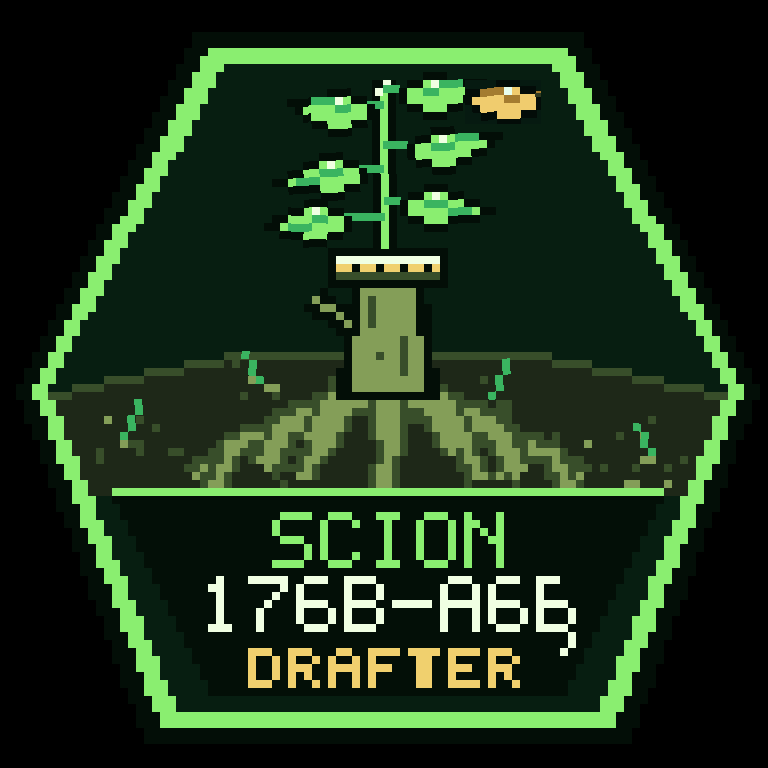
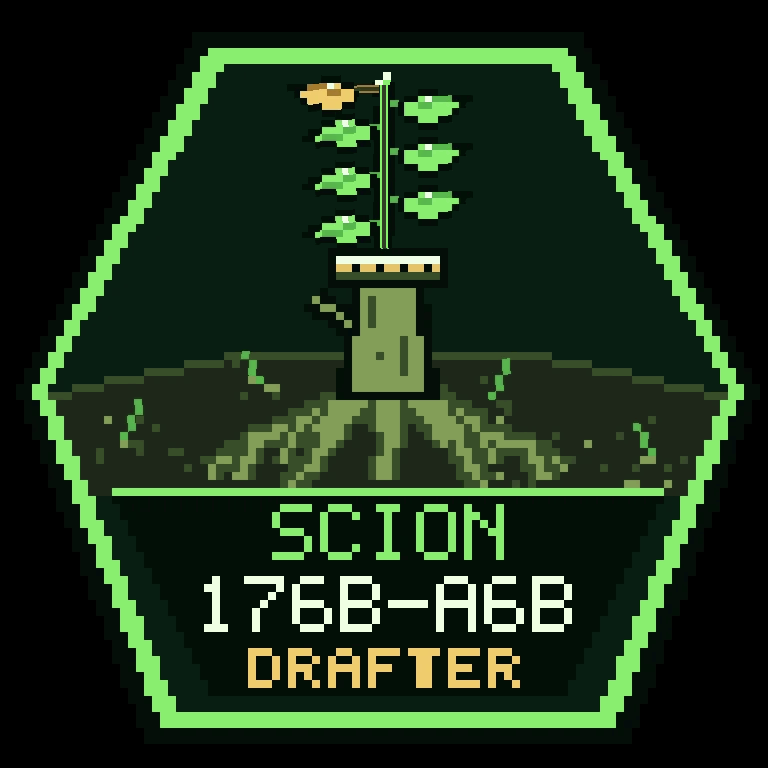
docs: refresh README and drafter card hero

diff --git a/README.md b/README.md
@@ -1,12 +1,15 @@
 # Scion: ternary quantization with trained corrections
 
 Scion is the project behind the released
-[**Scion-35B-A3B**](https://huggingface.co/SkyIsNotGreen/Scion-35B-A3B) and
+[**Scion-35B-A3B**](https://huggingface.co/SkyIsNotGreen/Scion-35B-A3B),
 [**Scion-FlashNext-176B-A6B**](https://huggingface.co/SkyIsNotGreen/Scion-FlashNext-176B-A6B),
-split out of
+and their optional MTP drafters:
+[35B](https://huggingface.co/SkyIsNotGreen/Scion-35B-A3B-mtp-drafter) and
+[176B](https://huggingface.co/SkyIsNotGreen/Scion-FlashNext-176B-A6B-mtp-drafter).
+It was split out of
 [bonsai2-ternary-forensics](https://github.com/sky-is-green/bonsai2-ternary-forensics)
 so the harness, the port decisions and the release docs can be cloned and run on
-their own. The dense-model forensics (Bonsai 2 27B) stayed in that repository.
+their own.
 
 <p align="center">
   <a href="https://huggingface.co/SkyIsNotGreen/Scion-35B-A3B"><img src="docs/figures/scion-35b.webp" alt="Scion-35B-A3B animated pixel hero" width="250"></a>
@@ -18,21 +21,28 @@ their own. The dense-model forensics (Bonsai 2 27B) stayed in that repository.
 
 **The idea.** Ternarise the expert banks of a pretrained MoE in place, then
 recover the routing damage with small trained corrections on the residual
-stream. No full-precision masters and no full-model QAT. The frozen 35B body
-ships at 2.125 bpw (`Q2_0_g128` ternary experts, formerly `PQ2_0`; Q8_0 for
-the rest); the 176B ships `TQ1_0_g128` (formerly `PTQ1_0`). The
+stream. No full-precision masters and no full-model QAT. The 35B body ships at
+2.125 bpw expert banks (`Q2_0_g128`; `PQ2_0` in the fork) and 11.34 GB total;
+the 176B ships 1.75 bpw expert banks (`TQ1_0_g128`; `PTQ1_0` in the fork). The
 corrections are rank-512 branches on the attention output and the MoE block
 output, plus router deltas, trained by output-KD **with the deployed quantizer
-in the loop**.
+in the loop**. The 35B drafter is a small trained k=1 sidecar. The 176B drafter
+is Qwen's own native MTP block, packed back with zero training.
 
-## Where the project is (2026-10)
+## Releases (2026-11)
 
-| lane | status |
-|---|---|
-| **Scion-35B-A3B** | **released**: 11.34 GB / 2.61 bpw ternary experts + embedded corrections, plus an optional k=1 MTP drafter. Runtime `v0.4.2`. CPU and ROCm verified; CUDA/Windows binaries published but runtime-unverified (see [platform scope](docs/PLATFORM-SCOPE.md)). |
-| **Scion-35B v2 (FlashNext distill)** | **planning**: frozen ternary body, corrections retrained against Scion-FlashNext with long-horizon windows. Plan: [v2/PLAN.md](v2/PLAN.md); lessons: [v2/LESSONS.md](v2/LESSONS.md). |
-| **Scion-FlashNext-176B-A6B** | **released** (2026-10-05): the 125B MoE (6B activated) + the 51.2B-parameter n-gram table in one 60.17 GB file at 2.72 bpw; `TQ1_0_g128` ternary experts (formerly `PTQ1_0`) + embedded corrections. CUDA, ROCm and CPU verified; runtime branch `qwen4exp-proto`. |
-| **Dense (Clef-Flash)** | **in progress, not released**: the rotated-basis + GPTQ + QAT ladder reaches 23.25 PPL / 5.52 GiB, but free generation still degrades and a plain Q2_K (13.06 PPL, 3.56 GiB) beats it. The 2026-10-06 derisk run (0.8B, 1500 steps, mixed corpus + logits KD) plateaus at 42.4 PPL with generation still broken, so scaling the same recipe is not justified and the lane is on hold. See [`dense/README.md`](dense/README.md). |
+| model | what | size | runtime | status |
+|---|---|---|---|---|
+| [**Scion-35B-A3B**](https://huggingface.co/SkyIsNotGreen/Scion-35B-A3B) | ternary Qwen3.8-35B-A3B distill + trained corrections | 11.34 GB | Prism `moe-corr-runtime` / Strata | released; runtime v0.4.2; CPU and ROCm verified, CUDA/Windows published but runtime-unverified |
+| [**Scion-35B-A3B-mtp-drafter**](https://huggingface.co/SkyIsNotGreen/Scion-35B-A3B-mtp-drafter) | k=1 MTP sidecar, trained self-distill | 50 MB | Prism `-md` | released; ~1.2x generation |
+| [**Scion-FlashNext-176B-A6B**](https://huggingface.co/SkyIsNotGreen/Scion-FlashNext-176B-A6B) | ternary FlashNext 176B + 51.2B n-gram table + trained corrections | 57.62 GB default; 60.17 GB Q4_0 table; 65.8 GB F16 | Prism `qwen4exp-proto` / Strata | released 2026-10-05 |
+| [**Scion-FlashNext-176B-A6B-mtp-drafter**](https://huggingface.co/SkyIsNotGreen/Scion-FlashNext-176B-A6B-mtp-drafter) | native MTP block, zero training | 0.89 GB | **Strata only** | released 2026-11-15 |
+| Scion-35B v2 | long-horizon correction retrain | — | — | planning; [plan](v2/PLAN.md), [lessons](v2/LESSONS.md) |
+
+The 35B v2 lane is a frozen-body correction retrain aimed at long-horizon work:
+the shipped 35B scores 14.4% on the hard-90 suite and derails into repetition
+at 5-10k generated tokens. The plan and the lessons so far are in
+[`v2/PLAN.md`](v2/PLAN.md) and [`v2/LESSONS.md`](v2/LESSONS.md).
 
 Negative results are kept in [`FAILURES.md`](FAILURES.md); runtime support
 boundaries and what a backend report must carry are in
@@ -40,13 +50,15 @@ boundaries and what a backend report must carry are in
 
 ## Runtime boundary
 
-Scion owns the model, the training, the codecs and the export. It does not depend on a serving
-engine. The reference loader is the Prism `qwen4exp` llama.cpp fork; Strata is one optional
-runtime, and its scripts live under [`integrations/strata/`](integrations/strata/). The container
-types and correction contract are in [`SCION_RUNTIME.md`](SCION_RUNTIME.md); core tests run without
-a Strata checkout.
+Scion owns the model, the training, the codecs and the export. The reference
+loader is the Prism `qwen4exp` llama.cpp fork; Strata is the second runtime.
+The 35B and 176B bodies run on the fork (branches below), the 35B drafter is an
+`-md` sidecar, and the 176B native MTP drafter is **Strata-only** — it is not
+loadable as a llama.cpp sidecar. Container types and the correction contract
+are in [`SCION_RUNTIME.md`](SCION_RUNTIME.md); core tests run without a Strata
+checkout.
 
-## Reference release: Scion-35B-A3B
+## Release: Scion-35B-A3B
 
 `empero-ai/Qwen3.8-35B-A3B-Distill` (a Qwen3.8-line distill on
 `Qwen/Qwen3.6-35B-A3B`), ternary experts, Q8_0 rest and embedded corrections:
@@ -71,34 +83,68 @@ axes inverted so the better end is up. Every row uses the same protocol.
 
 Card and weights:
 [`SkyIsNotGreen/Scion-35B-A3B`](https://huggingface.co/SkyIsNotGreen/Scion-35B-A3B).
-A snapshot of the card is kept at `docs/RELEASE-35B-MODEL-CARD.md`.
+A snapshot of the card is kept at `docs/RELEASE-35B-MODEL-CARD.md`. The repo
+also ships an optional decision head: a correctness readout
+(`EMB 2048 <file> <p_correct>`) for agents that need a confidence gate.
 
-Optional speedup: a 50 MB k=1 **MTP drafter** ships at
-[`SkyIsNotGreen/Scion-35B-A3B-mtp-drafter`](https://huggingface.co/SkyIsNotGreen/Scion-35B-A3B-mtp-drafter).
-It drafts the next token from the model's own hidden state and gives about
-1.2x generation (up to 1.37x on the bench prompt) with unchanged outputs.
-Pass it with `-md` only: the sidecar is detected from the GGUF. Do not add
-`--spec-type draft-mtp` (that selects the MTP head inside a full model and
+### 35B MTP drafter
+
+The optional **50 MB k=1 MTP drafter** is a trained self-distill (3,088 windows,
+67-83% acceptance). It drafts the next token from the model's own hidden state
+and gives about 1.2x generation (up to 1.37x on the bench prompt) with unchanged
+outputs. Pass it with `-md` only: the sidecar is detected from the GGUF. Do not
+add `--spec-type draft-mtp` (that selects the MTP head inside a full model and
 fails with `unknown model architecture: 'mtp'`); the sidecar's explicit type
 name is `draft-mtp-sidecar`.
 
 ## Release: Scion-FlashNext-176B-A6B
 
-`Qwen/Qwen3.8-Flash-Next-FP8` quantized to **2.72 bpw**: the 125B language model
-(6B activated per token, 512 experts top-10) plus the 51.2B-parameter n-gram
-table in a single file. Ternary **PTQ1_0** expert banks with embedded
-corrections; body Q6_K+Q8_0 (default) or F16; 60.17 GB and 65.80 GB variants.
+`Qwen/Qwen3.8-Flash-Next-FP8` quantized to **2.60-2.72 bpw** in the ternary
+containers: the 125B language model (6B activated per token, 512 experts top-10)
+plus the 51.2B-parameter n-gram table in a single file. Ternary `TQ1_0_g128`
+expert banks at 1.75 bpw (`PTQ1_0` in the fork) with embedded corrections;
+body Q6_K+Q8_0 or F16.
 
-| metric (one harness) | **Scion-FlashNext** | ISTA GSQ-RCO Q2_0 |
+| container | size | notes |
+|---|---|---|
+| Q6_K + Q4X160 table (default) | 57.62 GB | 2.60 bpw; smallest |
+| Q6_K + Q4_0 table | 60.17 GB | 2.72 bpw |
+| F16 body | 65.8 GB | fidelity variant |
+
+| metric (one harness, Q6_K/Q4_0 table) | **Scion-FlashNext** | ISTA GSQ-RCO Q2_0 |
 |---|---|---|
 | HellaSwag 400 | **82.00** | 81.50 |
 | Winogrande 400 | **77.50** | 74.75 |
 | wikitext-2 PPL | 5.457 | **5.240** |
 
+Measured with Strata on the 2x RX 7900 XT box (Q4_0-table file): **80.5-80.8
+tok/s** generation, 12.4 ms/token, 2.3-2.4 tokens per pipeline window.
+
 Card and weights:
 [`SkyIsNotGreen/Scion-FlashNext-176B-A6B`](https://huggingface.co/SkyIsNotGreen/Scion-FlashNext-176B-A6B);
-snapshot at `docs/RELEASE-FLASHNEXT-176B-A6B-MODEL-CARD.md`. It needs the
-runtime fork's `qwen4exp-proto` branch, not stock llama.cpp.
+snapshot at `docs/RELEASE-FLASHNEXT-176B-A6B-MODEL-CARD.md`. The body runs on
+the fork's `qwen4exp-proto` branch or Strata; stock llama.cpp cannot load it.
+
+## Release: Scion-FlashNext-176B-A6B native MTP drafter
+
+Qwen's own MTP block is present in the BF16 checkpoint but is dropped by
+llama.cpp's converter (`supports_mtp_export = false`). This pack restores the
+31 `mtp.*` tensors in Strata's runtime layout, so the 176B can draft from its
+own hidden state with no training, no distillation and no fitting pass.
+
+| metric | result |
+|---|---|
+| Draft acceptance (weighted, 10 mixed greedy prompts, 256 tok) | **0.741** (1310/1769), 0.640-0.810 per request |
+| Draft acceptance (30 long-form generations, T 0.6) | 0.62-0.72 per request |
+| Decode (2x RX 7900 XT, Q6_K, `--spec 4`) | 52-78 tok/s |
+| Prefill, ~450-token prompts | 116-135 tok/s |
+
+0.89 GB; Q2_0 round-to-nearest experts and BF16 dense tensors. **Strata only:**
+this is not a llama.cpp `-md` sidecar, and the fork's `draft-mtp-sidecar` lane
+does not load it. Convert once and serve with `--mtp mtp/rt --spec 4`; the full
+command, provenance manifest and tensor hashes are on the
+[card](https://huggingface.co/SkyIsNotGreen/Scion-FlashNext-176B-A6B-mtp-drafter)
+and in [`v2/mtp-drafter-release/`](v2/mtp-drafter-release/).
 
 ## What the experiments established
 
@@ -115,47 +161,55 @@ An earlier proof on the frozen proxy `allenai/OLMoE-1B-7B-0924`: the uncorrected
 mixed GGUF measured **566.7 PPL, and 14.48** with both placements and routers
 (2.12 GB body, 22.2 MB adapter), with CPU and HIP builds agreeing.
 
-## Dense route (2026-10-03)
-
-The recipe above repairs MoE routing damage. A dense variant is now open, with
-Cloudflare's **Clef-Flash** (Qwen3.5-9B + joint schema head) as the test bed:
-ternary body via `GGML_PQ2_0_LLOYD=1`, residual-stream corrections re-derived
-for a dense/hybrid stack, and a typed-decision metric (accept/reject parity
-against bf16) that the MoE PPL/KLD work did not have. Measured so far: absmax
-is broken (hidden-state cosine 0.007), Lloyd alone gives 0.417, and uncorrected
-decisions shift down ~0.43 - corrections are load-bearing here too. Plan:
-[`docs/DENSE-TERNARY-QAT.md`](docs/DENSE-TERNARY-QAT.md). The work is a
-postable ternary Clef community quant; the ladder so far (f16 = 12.59 PPL):
-deployed 8684 -> signed RTN 476 -> GPTQ+act-order 141.6 -> 128-w Hessians 120.6
--> +`ffn_down` F16 75.2 -> **QAT 23.25** (5.52 GiB). The 2026-10-06 community
-gate found a plain Q2_K at 13.06 PPL / 3.56 GiB beats the ternary artifact, so
-nothing is released; the follow-up derisk run (0.8B, mixed corpus + logits KD,
-1500 steps) confirmed free generation does not recover with scale on this
-recipe (PPL plateau ~42.4; code/math still degenerate), so the lane is on hold.
-Status: [`dense/README.md`](dense/README.md).
-
 ## Quickstart
 
-**Run a release.** Both releases need the runtime fork,
+**Run a release.** The 35B and 176B bodies need the runtime fork,
 [`sky-is-green/prism-ml-llama.cpp`](https://github.com/sky-is-green/prism-ml-llama.cpp).
-The 35B loads on the default `moe-corr-runtime` branch; Flash-Next needs
-`qwen4exp-proto`. Build once and run:
+The 35B loads on `moe-corr-runtime`; Flash-Next needs `qwen4exp-proto`. Build
+once per branch and run:
 
 ```bash
-git clone https://github.com/sky-is-green/prism-ml-llama.cpp
+git clone -b moe-corr-runtime https://github.com/sky-is-green/prism-ml-llama.cpp
 cd prism-ml-llama.cpp
 ./verify-container-support.sh          # prints RESULT: OK
 cmake -B build -DGGML_CUDA=ON          # or -DGGML_HIP=ON, or no flag for CPU
 cmake --build build -j --target llama-cli llama-server
 
-# Scion-35B-A3B with the drafter (branch moe-corr-runtime)
+# weights
+hf download SkyIsNotGreen/Scion-35B-A3B Scion-35B-A3B-PQ2_0-corr.gguf --local-dir .
+hf download SkyIsNotGreen/Scion-35B-A3B-mtp-drafter Scion-35B-A3B-mtp-drafter.gguf --local-dir .
+
+# Scion-35B-A3B with the drafter
 ./build/bin/llama-server -m Scion-35B-A3B-PQ2_0-corr.gguf \
     -md Scion-35B-A3B-mtp-drafter.gguf -ngl 99 -c 4096 -t 8 --port 8080
 ```
 
+```bash
+# 176B, 48 GB card + >= 64 GB host RAM (clone -b qwen4exp-proto and build first)
+hf download SkyIsNotGreen/Scion-FlashNext-176B-A6B \
+    Scion-FlashNext-176B-A6B-Q6_K-Q4X160.gguf --local-dir .
+./build/bin/llama-server -m Scion-FlashNext-176B-A6B-Q6_K-Q4X160.gguf -ngl 99 \
+    --cpu-moe -ot per_layer_token_embd.weight=CPU -fa on --numa distribute \
+    -c 4096 --port 8081
+```
+
+The 176B native MTP drafter is Strata-only:
+
+```bash
+hf download SkyIsNotGreen/Scion-FlashNext-176B-A6B-mtp-drafter \
+    Scion-FlashNext-176B-A6B-mtp-drafter.gguf --local-dir .
+# in the Strata checkout
+python tools/mtp_rt.py --gguf Scion-FlashNext-176B-A6B-mtp-drafter.gguf --out mtp/rt
+```
+
+Then add `--mtp mtp/rt --spec 4` to the Strata serve command; the full
+invocation is on the
+[drafter card](https://huggingface.co/SkyIsNotGreen/Scion-FlashNext-176B-A6B-mtp-drafter).
+
 Recommended sampling and context notes are on each model card. The fork's
 `master` is an untouched upstream mirror and cannot load these files; a load
-failure saying `invalid ggml type 142` means the wrong branch was built.
+failure saying `invalid ggml type 142` (35B) or `143/146` (176B) means the wrong
+branch or an upstream build was used.
 
 **Reproduce the recipe, locally and free: the OLMoE proxy.** Python 3.10 or
 newer, torch (ROCm or CUDA wheels), `transformers`, `datasets`, `numpy` and
@@ -164,7 +218,7 @@ ternary QAT negative control is `moe/olmoe_proxy.py` and the correction trainer
 is `moe/olmoe_corrections.py`.
 
 **Paths.** The harness resolves its external paths through `moe/scion_paths.py`
-and `dense/clef_paths.py`; every default is an environment variable
+and every default is an environment variable
 (`SCION_WORKSPACE`, `SCION_MODELS`, `LLAMA_BIN`, `GGUF_PY`, ...). Set
 `SCION_WORKSPACE` if models and sibling checkouts live outside the repo's
 parent directory.
@@ -188,9 +242,10 @@ volume. Port notes: `moe/PORT-QWEN35.md`; the architecture decision record:
 | path | what |
 |---|---|
 | `moe/` | the harness: proxies, correction trainers, port, box-run scripts, export and bench tooling, result JSONs |
-| `dense/` | the dense/hybrid route (Clef-Flash): reverse loader, correction trainer, rotated-basis quantizer, QAT |
+| `v2/` | 35B v2 planning, FlashNext evals, and the 176B native MTP drafter pack |
 | `docs/` | write-ups: the MoE extension, release tables, port decision, tail plan, platform scope, registers |
 | `serving/` | serving experiments: placement sweep (ternary vs f16 offload, threads, split modes) and the expert-cache negative result |
+| `integrations/strata/` | Strata serving scripts, decision-head clients and fit notes |
 | `scion_moe/` | vendored `rotation` and RTN quantizer used by the harness |
 | `FAILURES.md` | the negative register for this track (D1-D8) |
 | `retention-grid.png` | the release figure (regenerate with `moe/plot_bench.py`, which writes into `moe/results/qwen35-retention/`) |
@@ -203,14 +258,15 @@ volume. Port notes: `moe/PORT-QWEN35.md`; the architecture decision record:
 - `-ncmoe` is the VRAM-budget dial, and placement does not change the math;
 - the optional MTP drafter gives about **1.2x generation** on the 35B (up to 1.37x on the bench prompt) with unchanged outputs;
 - for the KV cache, `--cache-type-k/v q8_0` is lossless in practice; `q4_0` costs about +0.3% PPL at 4k context on the 35B;
+- the 176B body runs on both the fork and Strata; the 80.5-80.8 tok/s figure is Strata, and its native MTP drafter is Strata-only;
 - a hot-expert GPU cache gave **no throughput gain**, because `mul_mat_id` computes k experts per token regardless of the weights. It would need sparse per-token dispatch rather than a static split (`serving/placement-sweep-20260927/THROUGHPUT.md`).
 
 ## Provenance
 
 Split from
 [`sky-is-green/bonsai2-ternary-forensics`](https://github.com/sky-is-green/bonsai2-ternary-forensics)
-at `b01f7e2` (2026-09-27). The dense forensics, the replication ladder and their
-failure register stayed there; this track's register is [`FAILURES.md`](FAILURES.md).
+at `b01f7e2` (2026-09-27). This track's negative register is
+[`FAILURES.md`](FAILURES.md).
 
 ## License and attribution
 
